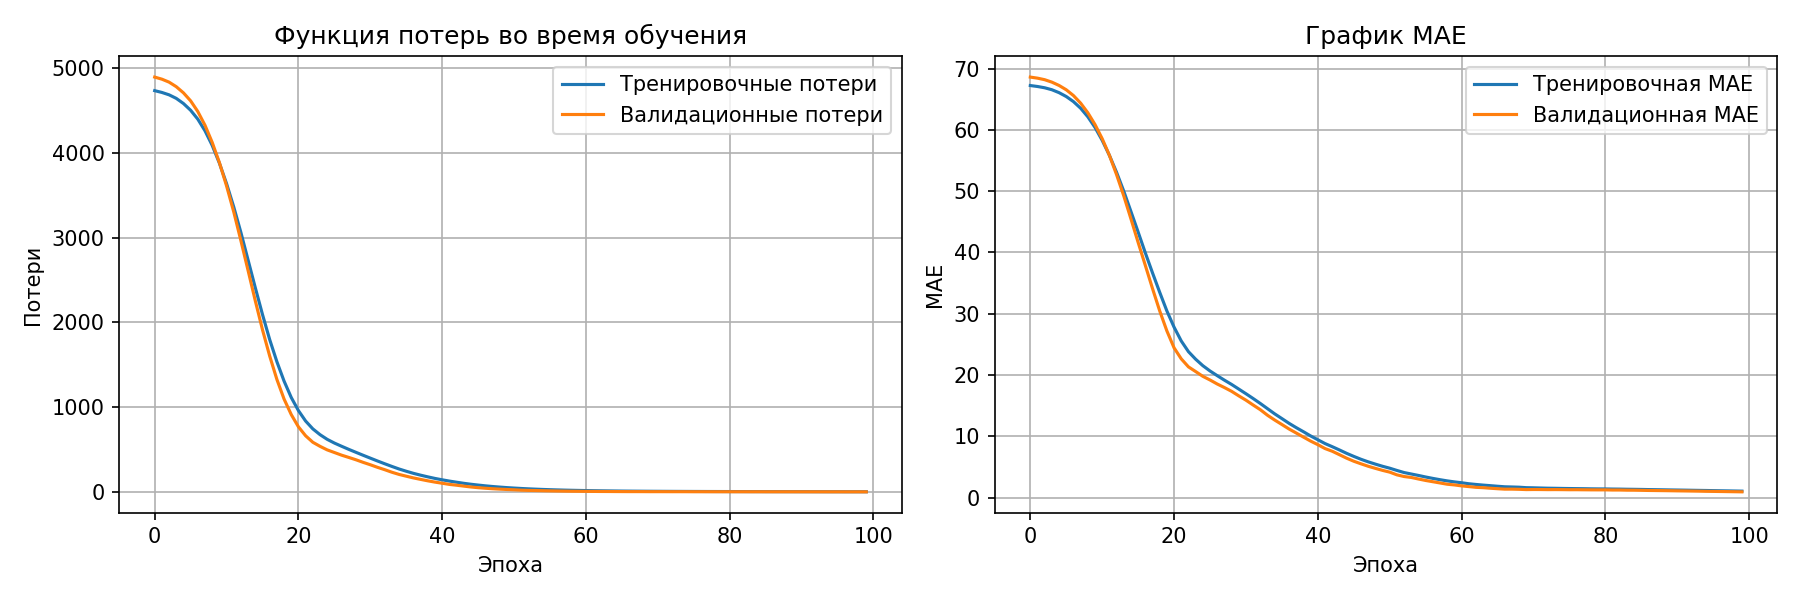
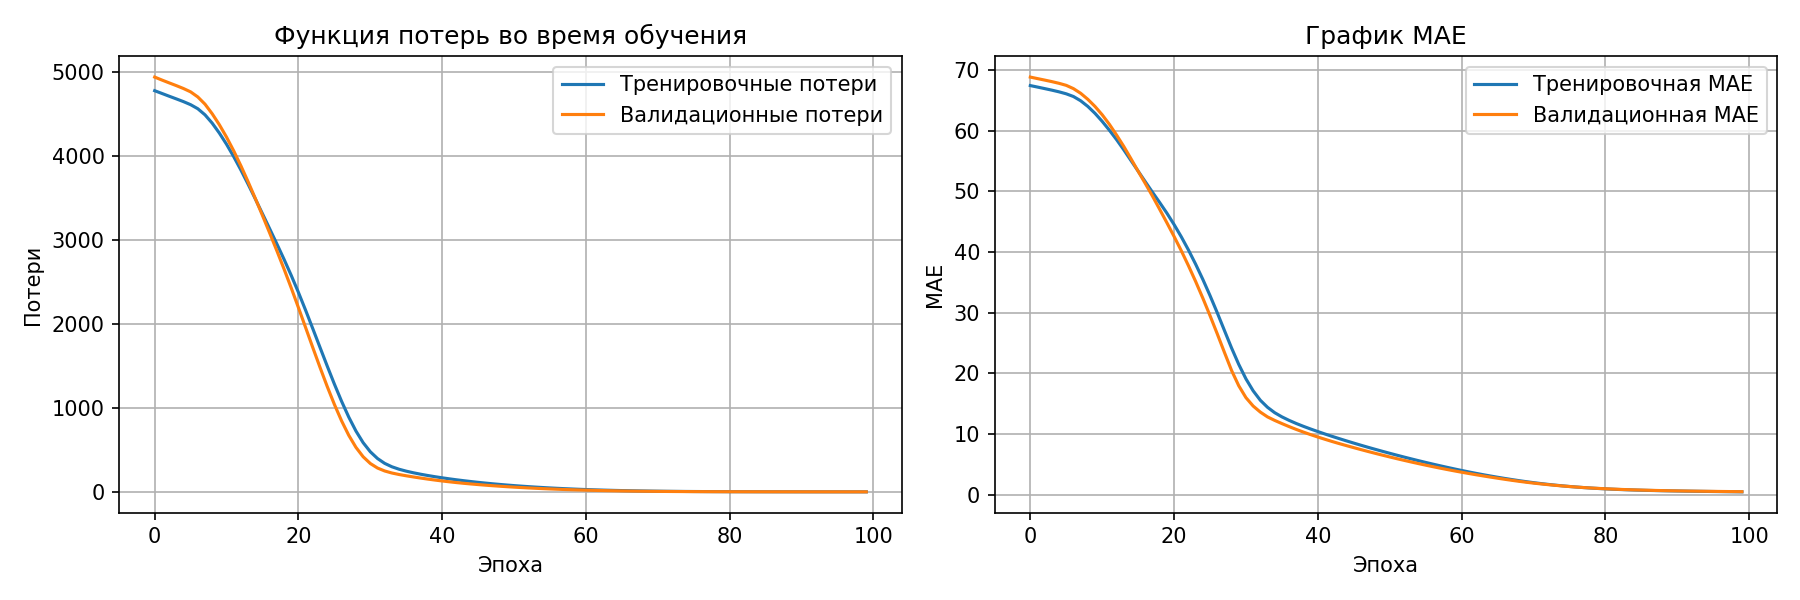
Fixed random state

diff --git a/main.py b/main.py
@@ -1,8 +1,10 @@
 import os
+import random
 from typing import Dict
 import pandas as pd
 import numpy as np
 import matplotlib.pyplot as plt
+import tensorflow as tf
 from tensorflow.keras.models import Sequential
 from tensorflow.keras.layers import Dense
 
@@ -33,6 +35,11 @@ def plot_training_history(history: Dict[str, list[float]]) -> None:
 if __name__ == "__main__":
     os.environ["TCL_LIBRARY"] = r"C:\Users\Warer\AppData\Local\Programs\Python\Python313\tcl\tcl8.6"
     os.environ["TK_LIBRARY"] = r"C:\Users\Warer\AppData\Local\Programs\Python\Python313\tcl\tk8.6"
+
+    seed = 42
+    random.seed(seed)
+    np.random.seed(seed)
+    tf.random.set_seed(seed)
 
     print("Загрузка данных...")
 
@@ -65,7 +72,6 @@ if __name__ == "__main__":
     # 5. Разделение данных
     print("Разделение данных на обучающую и тестовую выборки")
 
-    np.random.seed(42)
     indices = np.random.permutation(len(X))
 
     split = int(len(X) * 0.8)
@@ -106,7 +112,7 @@ if __name__ == "__main__":
         epochs=100,
         batch_size=32,
         validation_split=0.2,
-        verbose=1
+        verbose=1,
     )
 
     # 8. Оценка
@@ -114,7 +120,7 @@ if __name__ == "__main__":
 
     loss, mae = model.evaluate(X_test, y_test)
 
-    print("MSE:", loss)
+    print("loss:", loss)
     print("MAE:", mae)
 
     # 9. Предсказания
